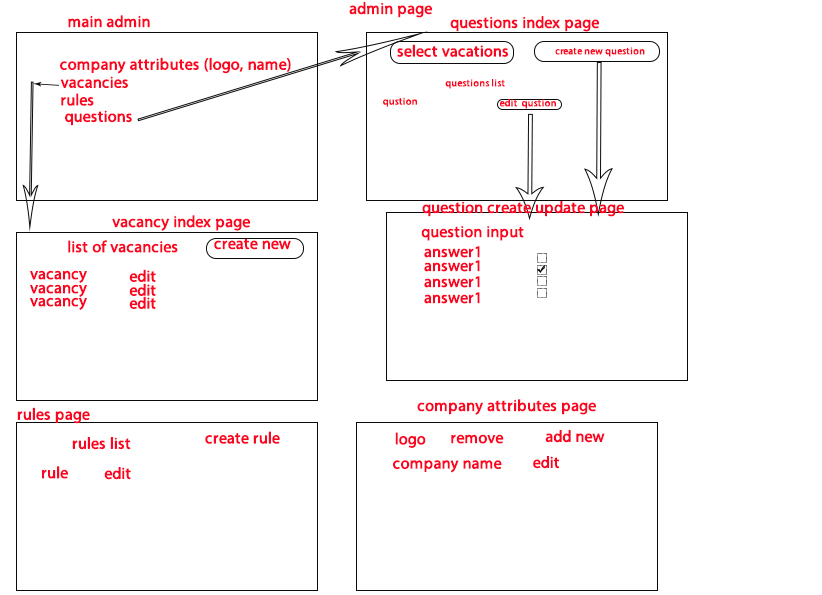
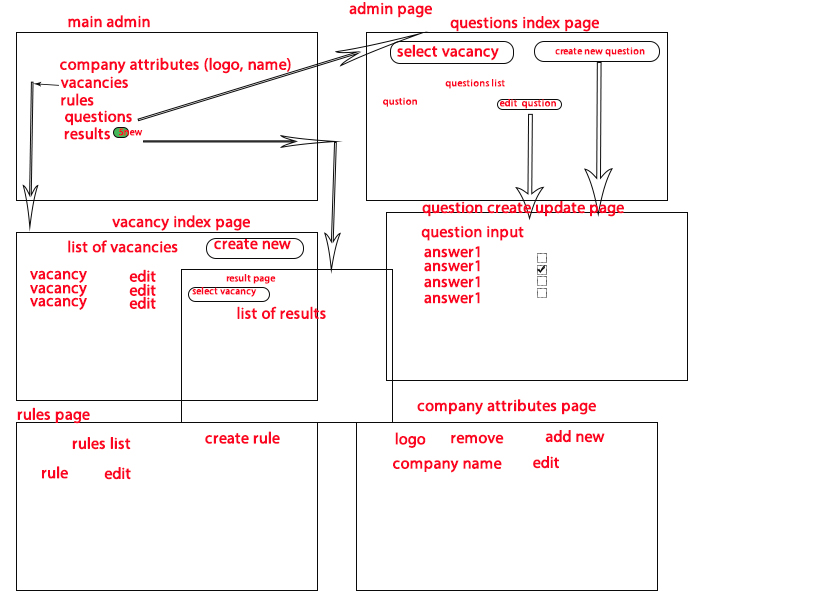
result done

diff --git a/app/Http/Controllers/API/ResultController.php b/app/Http/Controllers/API/ResultController.php
@@ -6,6 +6,7 @@ use Illuminate\Http\Request;
 use App\Http\Controllers\Controller;
 use App\User;
 use App\Models\Result;
+use App\Models\Vacancy;
 use App\Models\Answer;
 
 class ResultController extends Controller
@@ -19,44 +20,82 @@ class ResultController extends Controller
     {
         if($request->all()) {
             $userId = $request->user_id;
+            $vacancyId = $request->vacancy_id;
             $user = User::findOrFail($userId);
             if ($user->isUser()) {
-                $results = Result::byUserId($userId)->get();
-                $data = $this->getResult($results);
+                if ($vacancyId) {
+                    $data = $this->getSingleUserResult($vacancyId, $user);
+                } else {
+                    $data = $this->getAllUserResults($user);
+                }
                 return response()->json(['results' => $data['results']], $data['status']);
             } else if ($user->isHR()) {
-                
+                $results = $this->getAllResults();
+                return response()->json(compact('results'), 200);
             }
             return response()->json(['error' => User::RESPONSE_UNREGISTERED], 401);
         }
         return response()->json(['error' => User::RESPONSE_EMPTY], 204);
     }
 
-    public function getResult($results)
+    public function getAllResults()
     {
-        if (!$results->isEmpty()) {
-            
-            // $questionsAmount = $results->count();
-            // $rightAnswersAmount = $results->where('status', true)->count();
-
-            dd($results);
-
-
-
-
-            return [compact('results'), 'status' => 200];
+        $usersResult = Result::with('user')->select('user_id')->distinct()->get();
+        $results = [];
+        foreach ($usersResult as $user) {
+            $results[] = $this->getAllUserResults($user->user)['results'];
         }
-        return response()->json(['error' => Result::RESPONSE_EMPTY, 'status' => 204]);
+        return $results;
     }
 
-    /**
-     * Show the form for creating a new resource.
-     *
-     * @return \Illuminate\Http\Response
-     */
-    public function create()
+    public function getSingleUserResult($vacancyId, $user)
     {
-        //
+        $vacancy = Vacancy::findOrFail($vacancyId);
+        if ($vacancy->count() > 0) {
+            $results = $vacancy->results;
+            $resultsCounted = $this->getResultHelper($results, $vacancy, $user);
+            return ['results' => $resultsCounted, 'status' => 200];
+        }
+        return ['results' => Result::RESPONSE_EMPTY, 'status' => 204];
+    }
+
+    public function getResultHelper($results, $vacancy, $user)
+    {
+        $questionsAmount = $results->count();
+        $rightAnswersAmount = $this->getAnswers($results);
+        $persentageResult = 100 / (int)$questionsAmount * (int)$rightAnswersAmount;
+        return [
+            'vacancy' => $vacancy,
+            'user' => $user,
+            'result' => $persentageResult,
+        ];
+    }
+
+    public function getAllUserResults($user)
+    {
+        $results = Result::byUserId($user->id)->select('vacancy_id')->distinct()->get();
+        if (!$results->isEmpty()) {
+            $resultsCounted = [];
+            foreach ($results as $result) {
+                $vacancy = Vacancy::findOrFail($result->vacancy_id);
+                $resultsByVacancy = $vacancy->results;
+                $resultsCounted[] = $this->getResultHelper($resultsByVacancy, $vacancy, $user);                
+            }
+            return ['results' => $resultsCounted, 'status' => 200];
+        }
+        return ['results' => Result::RESPONSE_EMPTY, 'status' => 204];
+    }
+
+    public function getAnswers($results)
+    {
+        $trueAnswers = 0;
+        foreach ($results as $result) {
+            $answer = Answer::findOrFail($result->answer_id);
+            if ($answer->status) {
+                $trueAnswers += 1;
+            }
+        }
+        return count($trueAnswers);
     }
 
     /**
@@ -78,50 +117,5 @@ class ResultController extends Controller
             }
         }
         return response()->json(['error' => User::RESPONSE_UNREGISTERED], 401);
-    }
-
-    /**
-     * Display the specified resource.
-     *
-     * @param  int  $id
-     * @return \Illuminate\Http\Response
-     */
-    public function show($id)
-    {
-        //
-    }
-
-    /**
-     * Show the form for editing the specified resource.
-     *
-     * @param  int  $id
-     * @return \Illuminate\Http\Response
-     */
-    public function edit($id)
-    {
-        //
-    }
-
-    /**
-     * Update the specified resource in storage.
-     *
-     * @param  \Illuminate\Http\Request  $request
-     * @param  int  $id
-     * @return \Illuminate\Http\Response
-     */
-    public function update(Request $request, $id)
-    {
-        //
-    }
-
-    /**
-     * Remove the specified resource from storage.
-     *
-     * @param  int  $id
-     * @return \Illuminate\Http\Response
-     */
-    public function destroy($id)
-    {
-        //
     }
 }

diff --git a/resources/views/welcome.blade.php b/resources/views/welcome.blade.php
@@ -98,39 +98,39 @@
             $("button").click(function(){
 
                     var data = {
-                        question_id: 22,
-                        vacancy_id: 2,
+                        question_id: 33,
+                        vacancy_id: 1,
                         user_id: 1,
-                        answer_id: 1
+                        answer_id: 52
                     };
                     // var data = {
                     //     userId:5,
                     // };
                     
                     // var data = {
-                    //     userId:5,
-                    //     name:'who is a builder',
-                    //     vacancy_id: '1',
+                    //     user_id:5,
+                    //     name:'what is a css',
+                    //     vacancy_id: 1,
                     //     status:1,
                     //     answers: [
                     //         {
-                    //             name: 'shure', 
-                    //             status: 1,
+                    //             name: 'planguage', 
+                    //             status: 0,
                     //             // id: 1,
                     //         },
                     //         {
-                    //             name: 'noway', 
+                    //             name: 'humanLanguage', 
                     //             status: 0,
                     //             // id: 2,
                     //         },
                     //         {
-                    //             name: 'never', 
+                    //             name: 'book', 
                     //             status: 0,
                     //             // id: 3,
                     //         },
                     //         {
-                    //             name: 'i would like', 
-                    //             status: 0,
+                    //             name: 'technique', 
+                    //             status: 1,
                     //             // id: 4,
                     //         },
                     //     ]

diff --git a/app/Models/Result.php b/app/Models/Result.php
@@ -48,4 +48,19 @@ class Result extends Model
     public function scopeByUserId($query, $id) {
         return $query->where('user_id', $id);
     }
+
+    public function user()
+    {
+        return $this->belongsTo('App\User');
+    }
+
+    public function vacancy()
+    {
+        return $this->belongsTo('App\Models\Vacancy');
+    }
+
+    public function answer()
+    {
+        return $this->belongsTo('App\Models\Answer');
+    }
 }

diff --git a/app/Models/Answer.php b/app/Models/Answer.php
@@ -32,7 +32,7 @@ class Answer extends Model
 		'created_at', 'updated_at',
     ];
 
-    public function scopeByActive($query, $active) {
+    public function scopeByTruth($query, $active) {
         return $query->where('status', $active);
     }
 

diff --git a/app/Models/Vacancy.php b/app/Models/Vacancy.php
@@ -52,4 +52,9 @@ class Vacancy extends Model
     {
         return $this->hasMany('App\Models\Vacancy');
     }
+
+    public function results()
+    {
+        return $this->hasMany('App\Models\Result');
+    }
 }

diff --git a/readme.md b/readme.md
@@ -192,7 +192,61 @@ method = 'post';
 var url = 'results';
 var baseUrl = 'http://php_server.ua/api/' + url;
 return json status;
+#-----------index-from user- all of his tests--------------------
 
+data = {
+    user_id: 1
+}
+method = 'get';
+var url = 'results';
+var baseUrl = 'http://php_server.ua/api/' + url;
+return json {
+    results: [
+            'vacancy' => $vacancy,
+            'user' => $user,
+            'result' => $persentageResult,
+            ],
+            [
+                'vacancy' => $vacancy,
+                'user' => $user,
+                'result' => $persentageResult,
+            ]
+};
 
+#-----------index from user by vacancy id after the end of the test
+
+data = {
+    user_id: 1,
+    vacancy_id: 6,
+}
+method = 'get';
+var url = 'results';
+var baseUrl = 'http://php_server.ua/api/' + url;
+return json {
+    results: {
+            'vacancy' => $vacancy,
+            'user' => $user,
+            'result' => $persentageResult,
+    }
+};
+
+#------------index from hr -------
+data = {
+    user_id: 1
+}
+method = 'get';
+var url = 'results';
+var baseUrl = 'http://php_server.ua/api/' + url;
+
+return json {result:[[{vacancy: {id: 6, name: "fotographer", status: 1,…},…},…]]
+0:[{vacancy: {id: 6, name: "fotographer", status: 1,…},…},…]
+0:{vacancy: {id: 6, name: "fotographer", status: 1,…},…}
+result:16.666666666666668
+user:{id: 1, name: "0leg", phone: "8(342)23412342", email: "qwert@gmail.com", role: 1}
+vacancy:{id: 6, name: "fotographer", status: 1,…}
+1:{vacancy: {id: 1, name: "developer", status: 1,…},…}
+result:20
+user:{id: 1, name: "0leg", phone: "8(342)23412342", email: "qwert@gmail.com", role: 1}
+vacancy:{id: 1, name: "developer", status: 1,…}}
 
 
